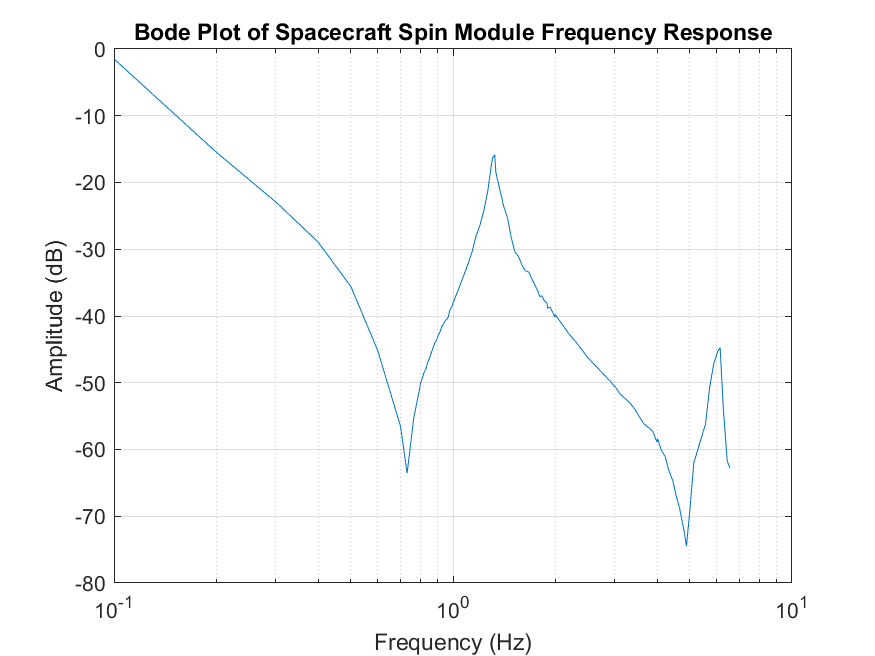
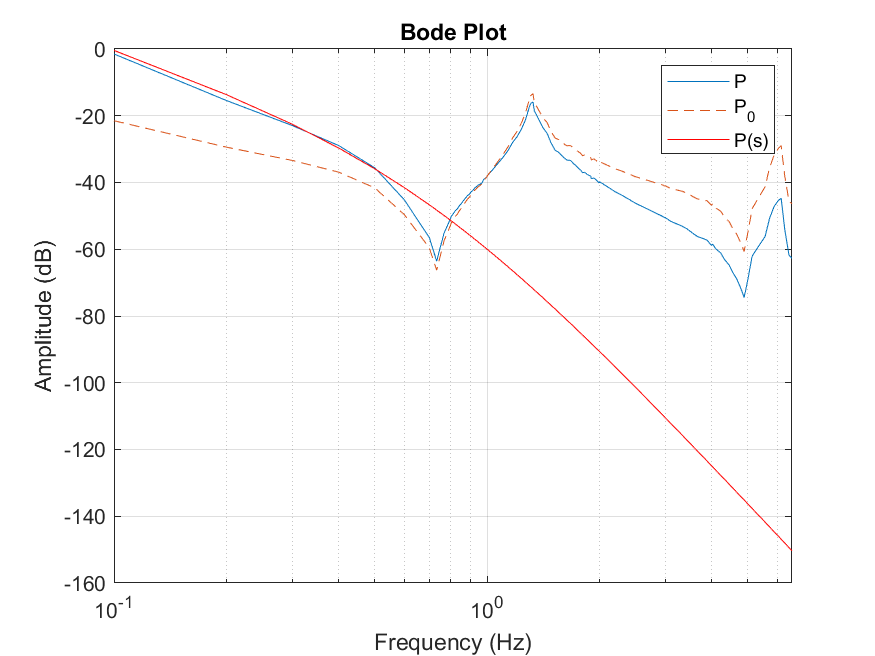
plots updated

diff --git a/proj1main.m b/proj1main.m
@@ -8,24 +8,45 @@ close all;
 data = table2array(readtable('data\Spacecraft_spin_module_frequency_response_data.xlsx'));
 freq = data(:,1);
 amp = data(:,2);
-amp_db = 20*log10(amp) - 20*log10(freq);
-phase = data(:,3) - pi/2;
+amp_db_P = 20*log10(amp) - 20*log10(freq);
+amp_db_P0 = 20*log10(amp);
+phase_P = data(:,3) - pi/2;
+phase_P0 = data(:,3);
+
+% Plant transfer function
+DC_gain = 0.01;
+p1 = 0.5; % rad/sec
+p2 = 1; % rad/sec
+s = tf('s');
+P = (DC_gain)/(s^2*(s/p1+1)^2*(s/p2+1)^2);
+[mag, phase, wout] = bode(P, freq);
+mag = squeeze(mag);
+
 
 % Plot the bode plot
 figure;
-semilogx(freq, amp_db);
-title('Bode Plot of Spacecraft Spin Module Frequency Response');
+semilogx(freq, amp_db_P);
+hold on;
+semilogx(freq, amp_db_P0, '--');
+semilogx(wout, db(mag), 'r');
+title('Bode Plot');
 xlabel('Frequency (Hz)');
 ylabel('Amplitude (dB)');
+xlim([freq(1), freq(end)]);
+legend('P', 'P_0', 'P(s)');
 grid on;
 saveas(gcf, 'figs/bode_plot.png');
 
 % Plot the phase plot
 figure;
-semilogx(freq, rad2deg(phase));
-title('Phase Plot of Spacecraft Spin Module Frequency Response');
+semilogx(freq, rad2deg(phase_P));
+hold on;
+semilogx(freq, rad2deg(phase_P0), '--');
+title('Phase Plot');
 xlabel('Frequency (Hz)');
 ylabel('Phase (deg)');
+xlim([freq(1), freq(end)]);
 grid on;
+legend('P', 'P_0');
 saveas(gcf, 'figs/phase_plot.png');
 
